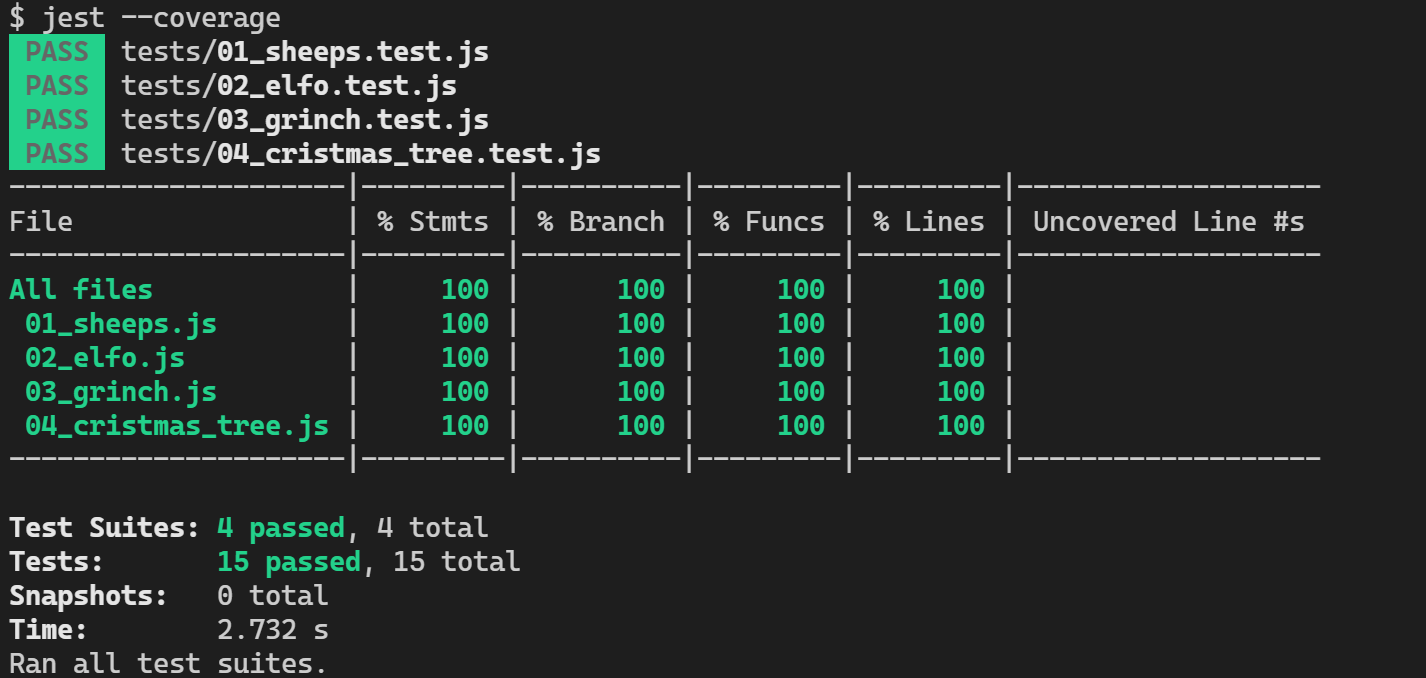
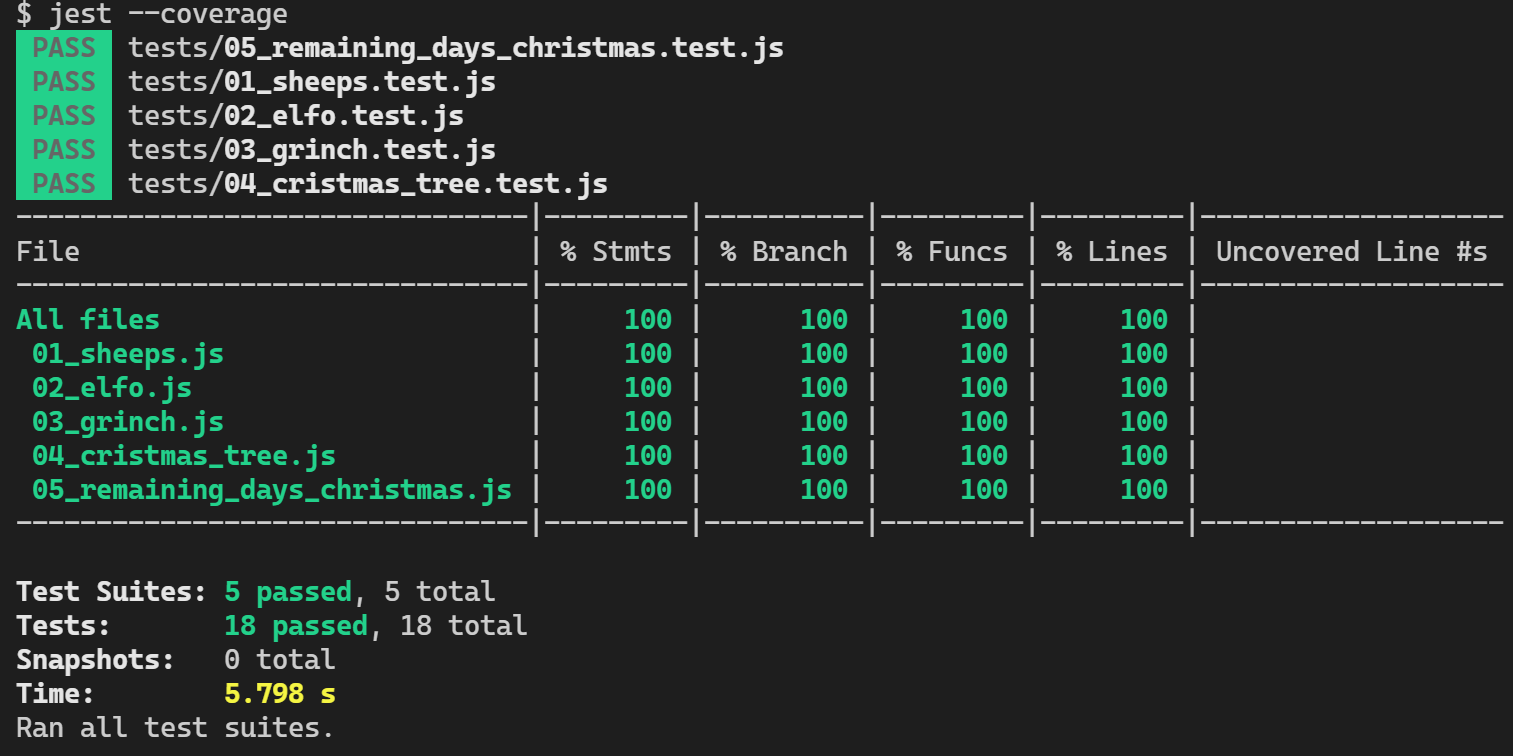
exercises - add - fifth exercise

Changed region(s): [[0.0, 0.0, 0.9874, 0.7124], [0.0, 0.7434, 0.3703, 1.0]]

diff --git a/tests/05_remaining_days_christmas.test.js b/tests/05_remaining_days_christmas.test.js
@@ -1,0 +1,66 @@
+describe("Remaining days christmas module should ", () => {
+  const sut = require("../exercises/05_remaining_days_christmas");
+
+  it("should return 24 when date is Dec 1 ", () => {
+    const date = new Date("Dec 1, 2021");
+    const expected = 24;
+
+    expect(sut(date)).toBe(expected);
+  });
+
+  it("should return 1 when date is Dec 24 ", () => {
+    const date = new Date("Dec 24, 2021 00:00:01");
+    const expected = 1;
+
+    expect(sut(date)).toBe(expected);
+  });
+
+  it("should return 1 when date is Dec 24 at the last second ", () => {
+    const date = new Date("Dec 24, 2021 23:59:59");
+    const expected = 1;
+
+    expect(sut(date)).toBe(expected);
+  });
+
+  it("should return 5 when date is Dec 20 ", () => {
+    const date = new Date("December 20, 2021 03:24:00");
+    const expected = 5;
+
+    expect(sut(date)).toBe(expected);
+  });
+
+  it("should return 0 when date is Dec 25 ", () => {
+    const date = new Date("Dec 25, 2021");
+    const expected = 0;
+
+    expect(sut(date)).toBe(expected);
+  });
+
+  it("should return -1 when date is Dec 26 ", () => {
+    const date = new Date("Dec 26, 2021");
+    const expected = -1;
+
+    expect(sut(date)).toBe(expected);
+  });
+
+  it("should return -6 when date is Dec 31 ", () => {
+    const date = new Date("Dec 31, 2021");
+    const expected = -6;
+
+    expect(sut(date)).toBe(expected);
+  });
+
+  it("should return -7 when date is Jan 1 ", () => {
+    const date = new Date("Jan 1, 2022 00:00:01");
+    const expected = -7;
+
+    expect(sut(date)).toBe(expected);
+  });
+
+  it("should return -7 when date is Jan 1 at the last second", () => {
+    const date = new Date("Jan 1, 2022 23:59:59");
+    const expected = -7;
+
+    expect(sut(date)).toBe(expected);
+  });
+});

diff --git a/tests/03_grinch.test.js b/tests/03_grinch.test.js
@@ -54,4 +54,12 @@ describe("Grinch module should ", () => {
 
     expect(result).toEqual(expected);
   });
+  it("return false when the letter is bad formatted", () => {
+    const letter = "(()) bici";
+    const expected = false;
+
+    const result = sut(letter);
+
+    expect(result).toEqual(expected);
+  });
 });

diff --git a/exercises/05_remaining_days_christmas.js b/exercises/05_remaining_days_christmas.js
@@ -1,0 +1,9 @@
+module.exports = function daysToXmas(date) {
+  const christmas = new Date(
+    "Dec 25, " + new Date().getFullYear() + " 00:00:00"
+  );
+  const diffTime = christmas - date;
+  const diffDays = Math.ceil(diffTime / (1000 * 60 * 60 * 24));
+
+  return diffDays;
+};
